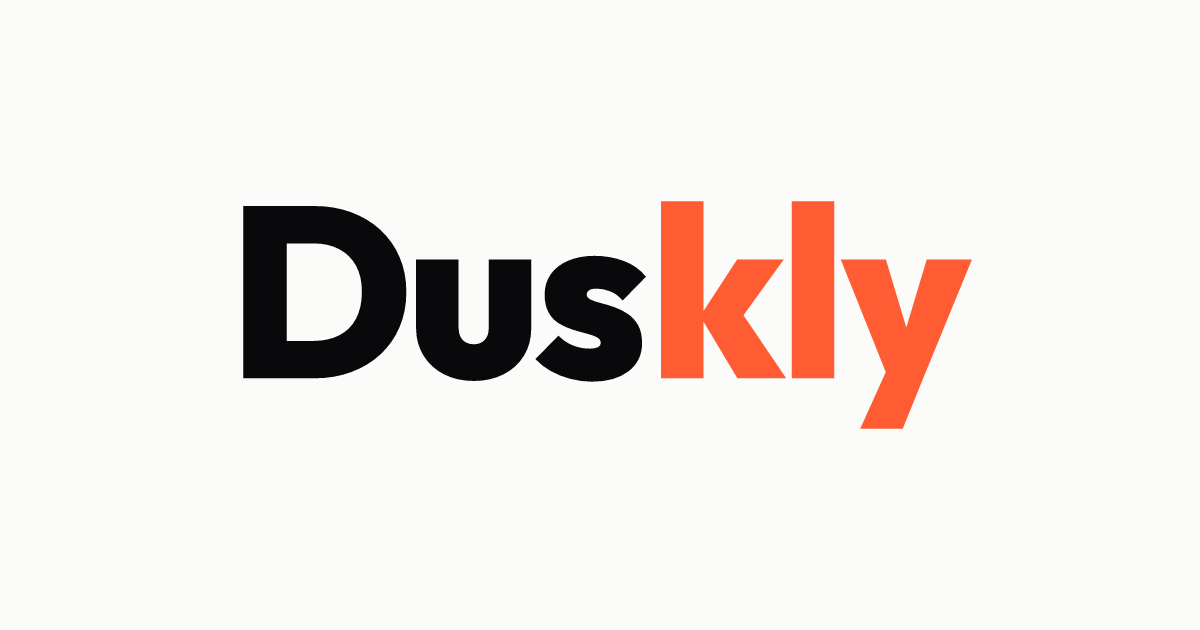
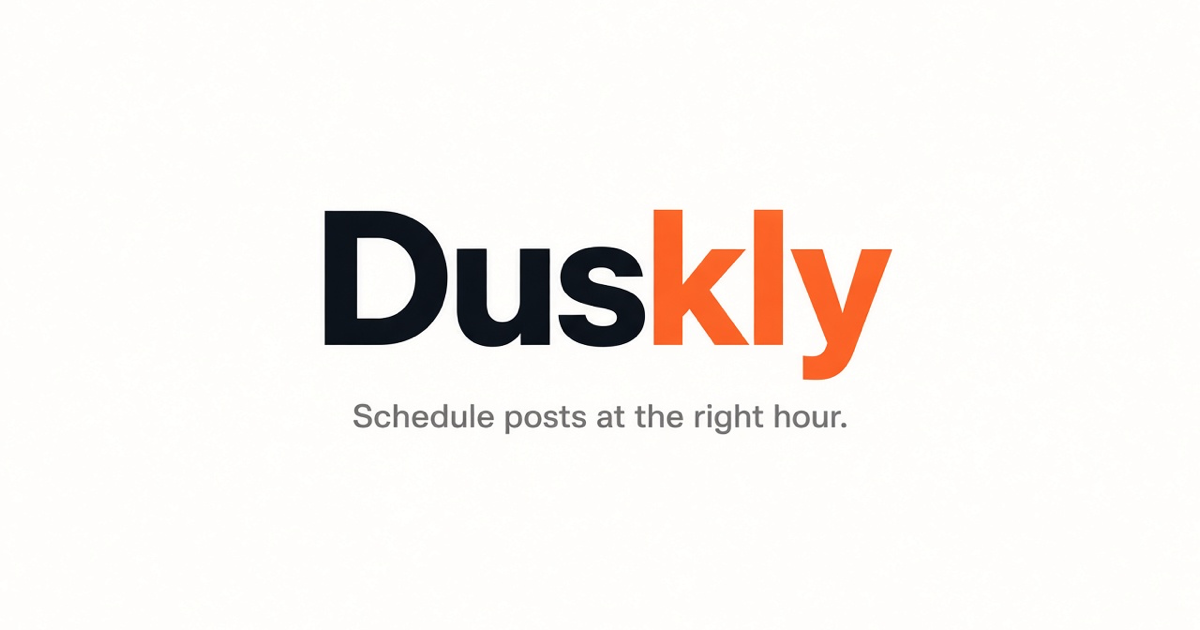
feat: add a share card and public LLM context
Publish a 1200×630 preview image, allow social and AI crawlers, and serve llms.txt plus llms-full.txt at the site root.

Changed region(s): [[0.185, 0.3016, 0.8325, 0.6937]]

diff --git a/apps/web/src/index.html b/apps/web/src/index.html
@@ -10,13 +10,22 @@
     <link rel="icon" type="image/svg+xml" href="/assets/favicon.svg" />
     <link rel="icon" type="image/png" sizes="32x32" href="/assets/brand/favicon-32.png" />
     <link rel="apple-touch-icon" href="/assets/brand/favicon-180.png" />
+    <meta property="og:type" content="website" />
+    <meta property="og:site_name" content="Duskly" />
+    <meta property="og:url" content="https://duskly.site/" />
     <meta property="og:title" content="Duskly" />
     <meta property="og:description" content="Schedule posts at the right hour." />
     <meta property="og:image" content="https://duskly.site/assets/brand/og.png" />
+    <meta property="og:image:secure_url" content="https://duskly.site/assets/brand/og.png" />
+    <meta property="og:image:type" content="image/png" />
     <meta property="og:image:width" content="1200" />
     <meta property="og:image:height" content="630" />
+    <meta property="og:image:alt" content="Duskly. Schedule posts at the right hour." />
     <meta name="twitter:card" content="summary_large_image" />
+    <meta name="twitter:title" content="Duskly" />
+    <meta name="twitter:description" content="Schedule posts at the right hour." />
     <meta name="twitter:image" content="https://duskly.site/assets/brand/og.png" />
+    <meta name="twitter:image:alt" content="Duskly. Schedule posts at the right hour." />
     <link rel="preconnect" href="https://fonts.googleapis.com" />
     <link rel="preconnect" href="https://fonts.gstatic.com" crossorigin />
     <link href="https://fonts.googleapis.com/css2?family=JetBrains+Mono:wght@400;500;600;700&family=Outfit:wght@500;600;700;800&family=Plus+Jakarta+Sans:ital,wght@0,400;0,500;0,600;0,700;0,800;1,400&display=swap" rel="stylesheet" />
